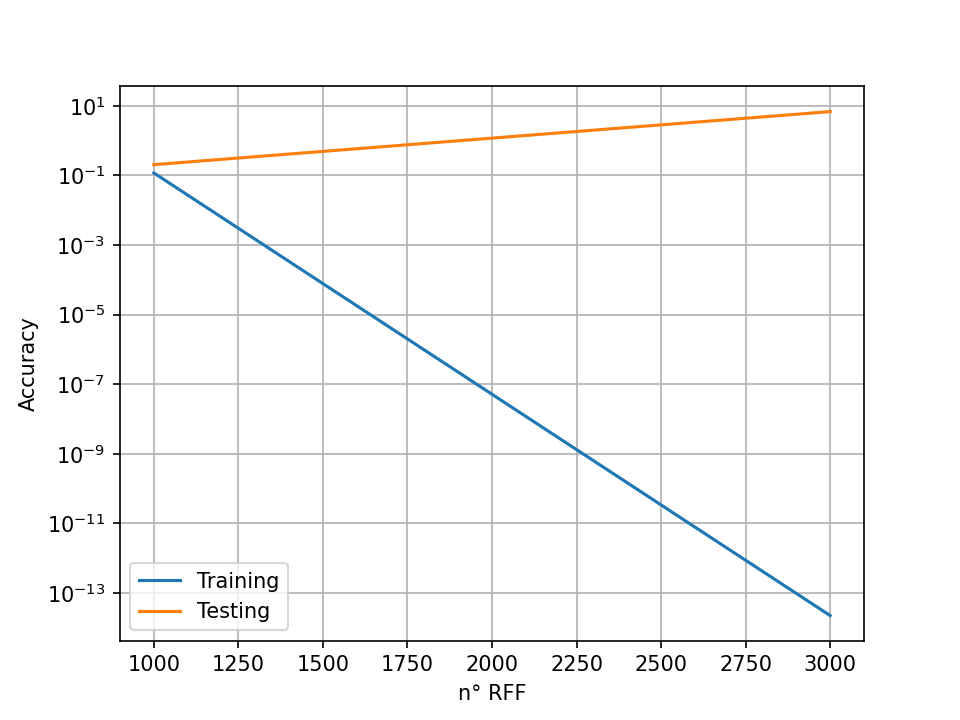
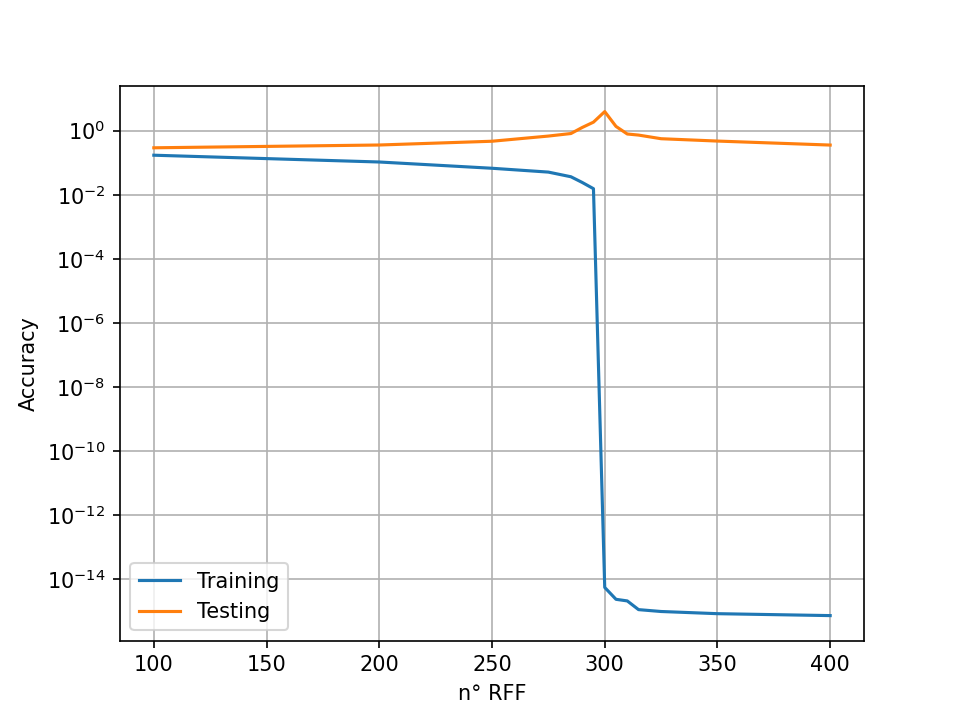
.

diff --git a/double_descent_doppler.py b/double_descent_doppler.py
@@ -1,0 +1,51 @@
+
+import numpy as np
+from sklearn.kernel_approximation import RBFSampler
+from sklearn.svm import LinearSVC
+from sklearn.linear_model import LinearRegression
+from sklearn import metrics,pipeline,svm
+from sklearn.preprocessing import scale
+import matplotlib.pyplot as plt
+from sklearn.preprocessing import OneHotEncoder
+n=100
+train_X=np.random.rand(n)*0.5+0.1
+train_X=np.expand_dims(train_X,axis=1)
+train_y=np.sqrt(train_X*(1-train_X))*np.sin(1.1*np.pi/(train_X+0.05))
+
+
+n=100
+test_X=np.random.rand(n)*0.5+0.1
+test_X=np.expand_dims(test_X,axis=1)
+test_y=np.sqrt(test_X*(1-test_X))*np.sin(2.1*np.pi/(test_X+0.05))
+
+
+
+
+
+for gamm in [500000]:
+    feature_map_fourier = RBFSampler(gamma=gamm, random_state=1)
+    fourier_approx_linear = pipeline.Pipeline([("feature_map", feature_map_fourier), ("svm",LinearRegression())])
+    train_acc = []
+    test_acc = []   
+    features=np.linspace(1,300,301,dtype=int)
+    for D in features:
+        fourier_approx_linear.set_params(feature_map__n_components=D)
+        fourier_approx_linear.fit(train_X, train_y)
+        '''
+        X_plot=np.expand_dims(np.linspace(0.1,0.6,10000),axis=1)
+        y_plot=fourier_approx_linear.predict(X_plot)
+        plt.plot(X_plot,y_plot,label=str(D))
+        plt.scatter(train_X,train_y,label=str(D))
+        plt.show()     '''
+        train_acc.append(np.sqrt(np.mean((fourier_approx_linear.predict(train_X)-train_y)**2)))
+        test_acc.append(np.sqrt(np.mean((fourier_approx_linear.predict(test_X)-test_y)**2)))
+    plt.plot(features,train_acc,label='Training gamma ='+str(gamm))
+    plt.plot(features,test_acc,label='Testing gamma ='+str(gamm))
+plt.legend()
+plt.xlabel('n° RFF')
+plt.ylabel('L2 loss')
+plt.grid()
+plt.legend()
+plt.savefig('double_descent_doppler.png', dpi=150)
+plt.show()
+
